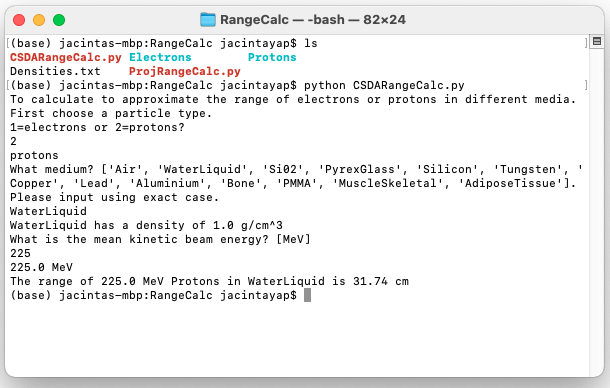
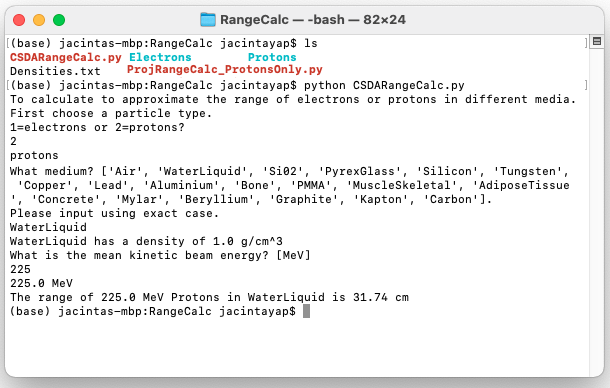
Update files for new materials

Changed region(s): [[0.0, 0.4021, 0.9344, 0.8351], [0.1869, 0.1546, 0.5295, 0.2165]]

diff --git a/ProjRangeCalc_ProtonsOnly.py b/ProjRangeCalc_ProtonsOnly.py
@@ -1,4 +1,4 @@
-# Script to calculate approximate range in media for protons
+# Script to calculate approximate range in media for protons only (PSTAR)
 # Simple calculations to avoid manual searching & computation from NIST look up tables
 # Selection of media chosen based on relevance in particle therapy applications
 # Uses values from NIST database for density, projected range according to energies (0.001-1000 MeV)
@@ -84,7 +84,23 @@ def WhichMedia():
 
     while medium == 'Mylar':
         Medium = "Mylar"    
-        return Medium     
+        return Medium    
+    
+    while medium == 'Beryllium':
+        Medium = "Beryllium"    
+        return Medium   
+
+    while medium == 'Graphite':
+        Medium = "Graphite"    
+        return Medium   
+
+    while medium == 'Kapton':
+        Medium = "Kapton"    
+        return Medium   
+
+    while medium == 'Carbon':
+        Medium = "Carbon"    
+        return Medium   
 
     else: 
      print("Please choose a media")

diff --git a/CSDARangeCalc.py b/CSDARangeCalc.py
@@ -1,4 +1,4 @@
-# Script to calculate approximate range in media for electrons and protons
+# Script to calculate approximate range in media for electrons and protons (ESTAR and PSTAR)
 # Simple calculations to avoid manual searching & computation from NIST look up tables
 # Selection of media chosen based on relevance in particle therapy applications
 # Uses values from NIST database for density, CSDA range according to energies (0.001-1000 MeV)
@@ -104,6 +104,23 @@ def WhichMedia():
     while medium == 'Mylar': 
         Medium = "Mylar"    
         return Medium
+    
+    while medium == 'Beryllium':
+        Medium = "Beryllium"    
+        return Medium   
+
+    while medium == 'Graphite':
+        Medium = "Graphite"    
+        return Medium   
+
+    while medium == 'Kapton':
+        Medium = "Kapton"    
+        return Medium   
+
+    while medium == 'Carbon':
+        Medium = "Carbon"    
+        return Medium   
+
 
     else: 
      print("Please choose a media")
